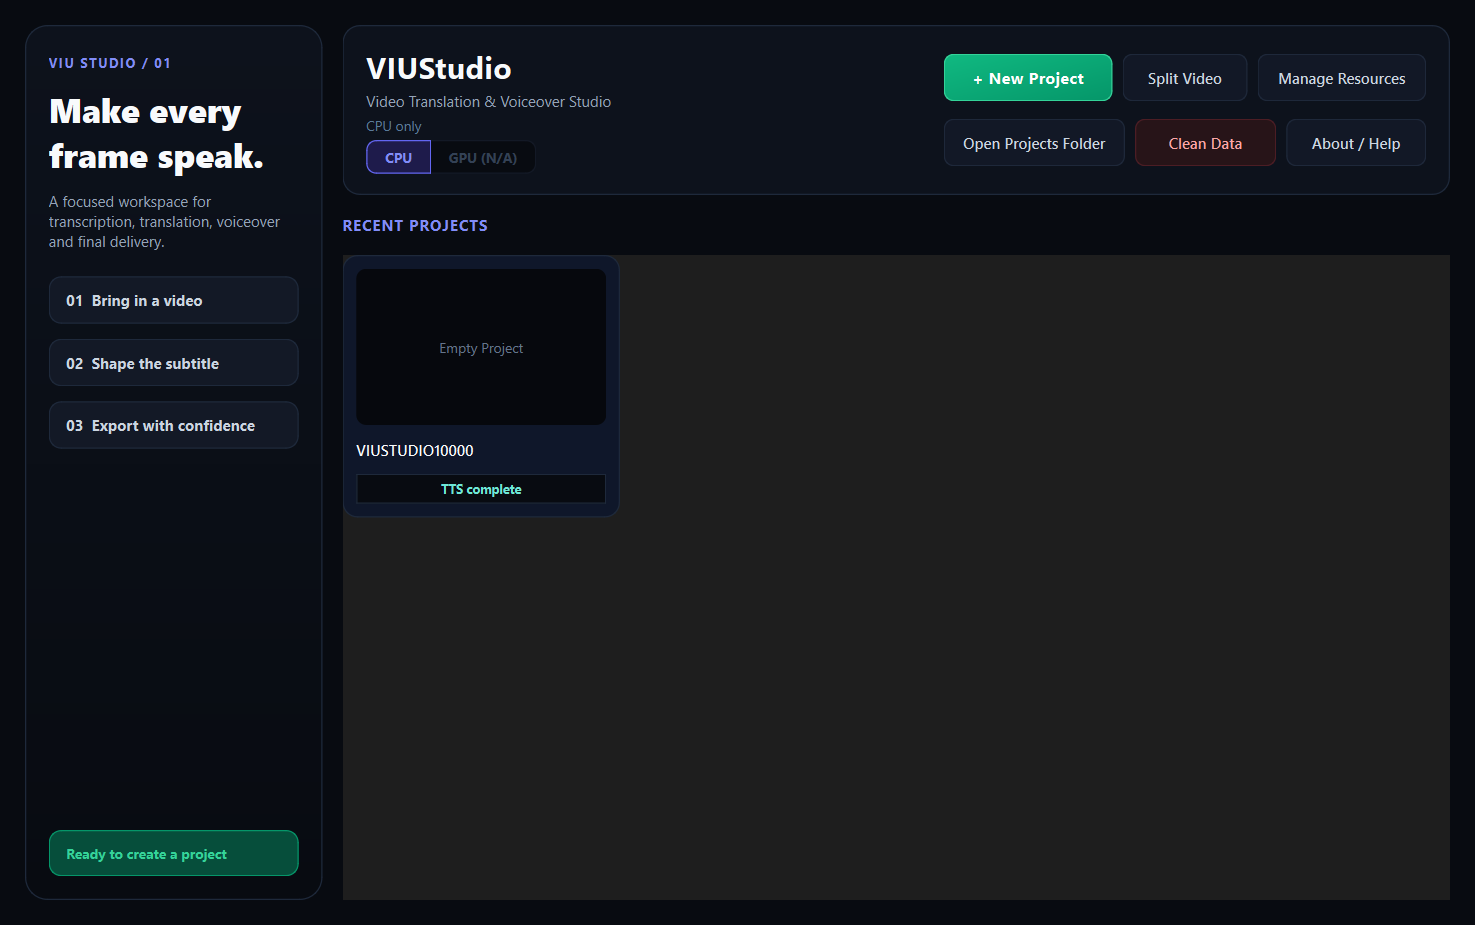
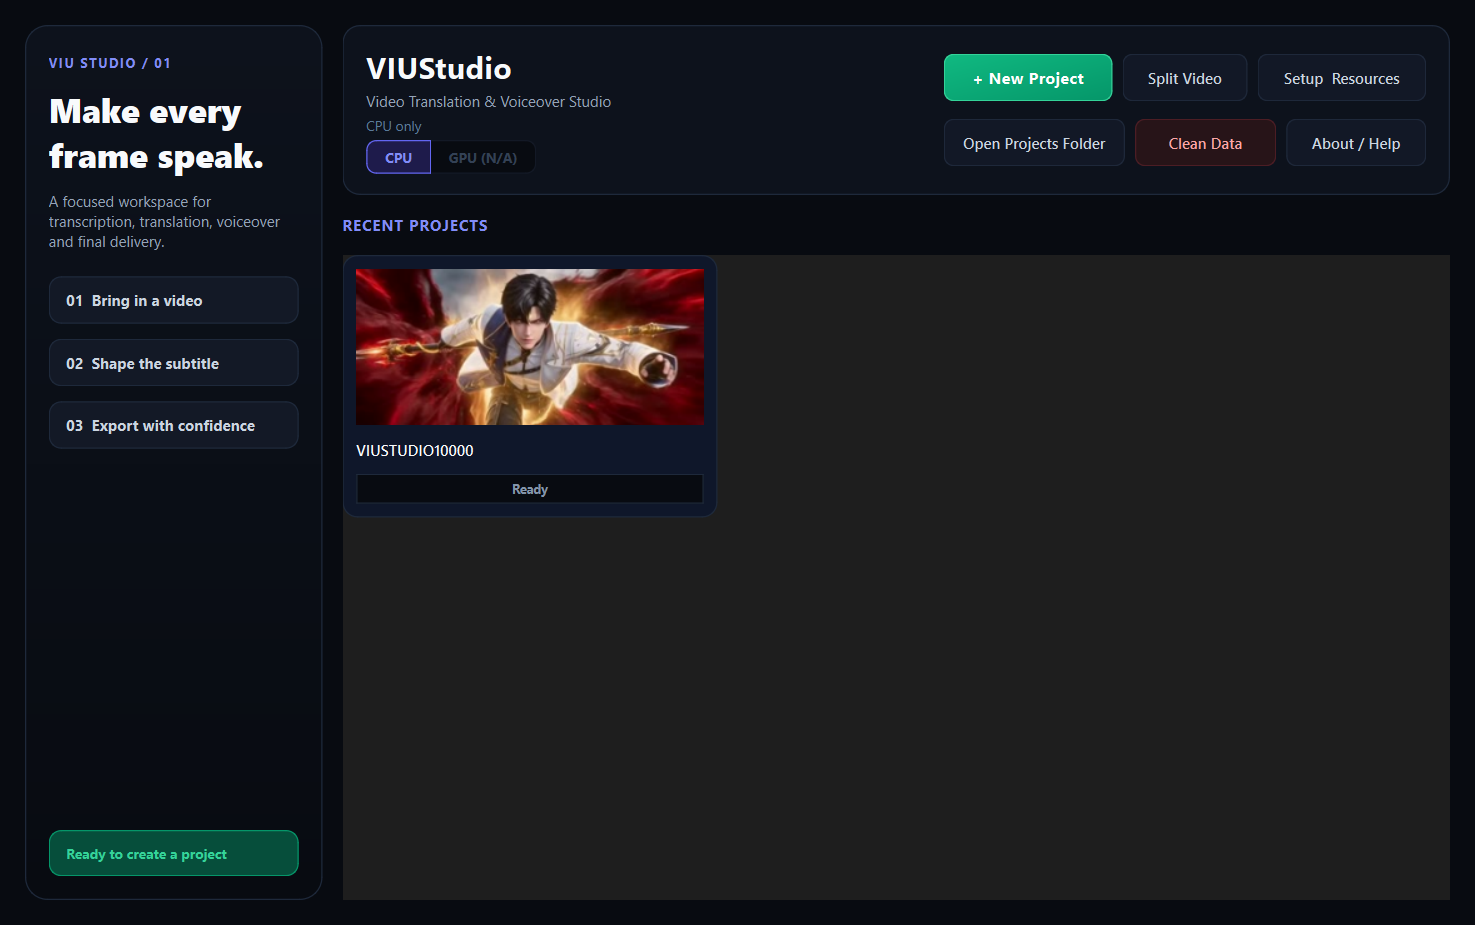
fix(ui): align navigation rail menu buttons and uniform card tiles

diff --git a/ui/views/setup_wizard.py b/ui/views/setup_wizard.py
@@ -9,6 +9,7 @@ from PySide6.QtWidgets import (
     QFrame,
     QHBoxLayout,
     QLabel,
+    QCheckBox,
     QPushButton,
     QProgressBar,
     QRadioButton,
@@ -31,8 +32,8 @@ class SetupWizard(QDialog):
         },
         "local": {
             "title": "Local AI",
-            "description": "Basic CPU plus offline Vietnamese Piper voices. Llama.cpp/GGUF can be imported afterwards.",
-            "resources": ("sensevoice:model", "sensevoice:vad", "voice:pack"),
+            "description": "Basic CPU plus selectable offline Piper voices in Vietnamese and English. Llama.cpp/GGUF can be imported afterwards.",
+            "resources": ("sensevoice:model", "sensevoice:vad"),
         },
         "gpu": {
             "title": "GPU acceleration",
@@ -58,6 +59,7 @@ class SetupWizard(QDialog):
             QLabel#hint { color: #91a4bb; font-size: 12px; }
             QFrame#profile { background: #111d2c; border: 1px solid #263d58; border-radius: 10px; }
             QRadioButton { color: #e7f0fb; font-size: 13px; font-weight: 700; spacing: 8px; }
+            QCheckBox { color: #dbeafe; font-size: 13px; spacing: 8px; }
             QPushButton { background: #17263a; color: #dbeafe; border: 1px solid #315476; border-radius: 7px; padding: 8px 16px; font-weight: 700; }
             QPushButton:hover { background: #203652; border-color: #4b9be8; }
             QPushButton#primary { background: #22b992; color: #07130f; border-color: #22b992; }
@@ -99,6 +101,34 @@ class SetupWizard(QDialog):
             layout.addWidget(description)
             root.addWidget(card)
 
+        # Voice packs are optional setup resources.  Keep this choice local to
+        # the wizard; the existing voice catalog/TTS selection logic remains
+        # unchanged and continues to select the active language at runtime.
+        self.voice_options = QFrame(self)
+        self.voice_options.setObjectName("profile")
+        voice_layout = QVBoxLayout(self.voice_options)
+        voice_layout.setContentsMargins(14, 10, 14, 10)
+        voice_title = QLabel("Offline Piper voice packs (optional)", self.voice_options)
+        voice_title.setStyleSheet("color: #e7f0fb; font-size: 13px; font-weight: 700;")
+        voice_layout.addWidget(voice_title)
+        voice_hint = QLabel("Choose one or both languages for offline voiceover.", self.voice_options)
+        voice_hint.setObjectName("hint")
+        voice_hint.setWordWrap(True)
+        voice_layout.addWidget(voice_hint)
+        voice_checks = QHBoxLayout()
+        self.voice_vi_check = QCheckBox("Vietnamese", self.voice_options)
+        self.voice_en_check = QCheckBox("English", self.voice_options)
+        self.voice_vi_check.setChecked(True)
+        self.voice_en_check.setChecked(True)
+        voice_checks.addWidget(self.voice_vi_check)
+        voice_checks.addWidget(self.voice_en_check)
+        voice_checks.addStretch(1)
+        voice_layout.addLayout(voice_checks)
+        self.voice_vi_check.toggled.connect(lambda _checked: self._refresh_status())
+        self.voice_en_check.toggled.connect(lambda _checked: self._refresh_status())
+        root.addWidget(self.voice_options)
+        self.voice_options.setVisible(False)
+
         self.status_label = QLabel(self)
         self.status_label.setWordWrap(True)
         root.addWidget(self.status_label)
@@ -129,11 +159,26 @@ class SetupWizard(QDialog):
 
     def _select_profile(self, key: str):
         self._profile_key = key
+        self.voice_options.setVisible(key == "local")
         self._refresh_status()
+
+    def _selected_resources(self) -> list[str]:
+        """Return setup resources selected in the wizard.
+
+        Piper packs are deliberately added here instead of changing the
+        runtime voice catalog, so existing project and TTS behaviour is kept.
+        """
+        resources = list(self.PROFILES[self._profile_key]["resources"])
+        if self._profile_key == "local":
+            if self.voice_vi_check.isChecked():
+                resources.append("voice:pack")
+            if self.voice_en_check.isChecked():
+                resources.append("voice:pack-en")
+        return resources
 
     def _refresh_status(self):
         profile = self.PROFILES[self._profile_key]
-        missing = [rid for rid in profile["resources"] if not self.service.is_resource_installed(rid)]
+        missing = [rid for rid in self._selected_resources() if not self.service.is_resource_installed(rid)]
         self._pending = missing
         if missing:
             self.status_label.setText(f"{len(missing)} resource(s) need installation for {profile['title']}.")

diff --git a/ui/views/main_window.py b/ui/views/main_window.py
@@ -104,19 +104,20 @@ def _build_navigation_rail(gui):
     mark = QLabel("V")
     mark.setObjectName("navigationMark")
     mark.setAlignment(Qt.AlignCenter)
-    mark.setFixedSize(42, 42)
+    mark.setFixedSize(44, 44)
     layout.addWidget(mark, 0, Qt.AlignHCenter)
 
     brand = QLabel("VIU\nSTUDIO")
     brand.setObjectName("navigationBrand")
     brand.setAlignment(Qt.AlignCenter)
-    layout.addWidget(brand)
+    layout.addWidget(brand, 0, Qt.AlignHCenter)
 
     divider = QFrame()
     divider.setObjectName("navigationDivider")
     divider.setFrameShape(QFrame.HLine)
     divider.setFixedHeight(1)
-    layout.addWidget(divider)
+    divider.setFixedWidth(70)
+    layout.addWidget(divider, 0, Qt.AlignHCenter)
 
     nav_group = QButtonGroup(rail)
     nav_group.setExclusive(True)
@@ -137,10 +138,10 @@ def _build_navigation_rail(gui):
         button.setCheckable(True)
         button.setAutoRaise(True)
         button.setCursor(Qt.PointingHandCursor)
-        button.setMinimumHeight(52)
+        button.setFixedSize(70, 52)
         button.setToolTip(f"Open {label} controls")
         nav_group.addButton(button)
-        layout.addWidget(button)
+        layout.addWidget(button, 0, Qt.AlignHCenter)
         key = label.lower()
         gui.navigation_buttons[key] = button
 
@@ -165,19 +166,21 @@ def _build_navigation_rail(gui):
     progress_button.setToolButtonStyle(Qt.ToolButtonTextOnly)
     progress_button.setAutoRaise(True)
     progress_button.setCursor(Qt.PointingHandCursor)
+    progress_button.setFixedSize(70, 44)
     progress_button.setToolTip("Show active pipeline progress")
     progress_button.clicked.connect(gui.show_active_progress_dialog)
-    layout.addWidget(progress_button)
+    layout.addWidget(progress_button, 0, Qt.AlignHCenter)
 
     project_button = QToolButton(rail)
     project_button.setObjectName("navigationUtilityButton")
-    project_button.setText("⌂\nProjects")
+    project_button.setText("📁\nProjects")
     project_button.setToolButtonStyle(Qt.ToolButtonTextOnly)
     project_button.setAutoRaise(True)
     project_button.setCursor(Qt.PointingHandCursor)
+    project_button.setFixedSize(70, 44)
     project_button.setToolTip("Return to Projects")
     project_button.clicked.connect(lambda: getattr(gui, "header_home_btn", None).click())
-    layout.addWidget(project_button)
+    layout.addWidget(project_button, 0, Qt.AlignHCenter)
 
     settings_button = QToolButton(rail)
     settings_button.setObjectName("navigationUtilityButton")
@@ -185,9 +188,10 @@ def _build_navigation_rail(gui):
     settings_button.setToolButtonStyle(Qt.ToolButtonTextOnly)
     settings_button.setAutoRaise(True)
     settings_button.setCursor(Qt.PointingHandCursor)
+    settings_button.setFixedSize(70, 44)
     settings_button.setToolTip("Open application settings")
     settings_button.clicked.connect(gui.open_model_settings_dialog)
-    layout.addWidget(settings_button)
+    layout.addWidget(settings_button, 0, Qt.AlignHCenter)
 
     gui.navigation_group = nav_group
     gui.navigation_buttons["source"].setChecked(True)

diff --git a/ui/main_window.py b/ui/main_window.py
@@ -45,7 +45,7 @@ QMainWindow, QWidget#centralWidget {
 QFrame#navigationRail {
     background: #0d121c;
     border: 1px solid #1a2333;
-    border-radius: 16px;
+    border-radius: 14px;
 }
 QLabel#navigationMark {
     background: qlineargradient(x1:0, y1:0, x2:1, y2:1, stop:0 #6366f1, stop:1 #4f46e5);
@@ -65,32 +65,43 @@ QFrame#navigationDivider {
     border: none;
     height: 1px;
 }
-QToolButton#navigationButton, QToolButton#navigationUtilityButton {
-    background: transparent;
+QToolButton#navigationButton {
+    background: #101622;
     color: #94a3b8;
-    border: 1px solid transparent;
-    border-radius: 10px;
-    padding: 7px 3px;
+    border: 1px solid #1a2436;
+    border-radius: 9px;
+    padding: 5px 2px;
     font-size: 10px;
     font-weight: 700;
 }
-QToolButton#navigationButton:hover, QToolButton#navigationUtilityButton:hover {
-    background: #151d2b;
+QToolButton#navigationButton:hover {
+    background: #182236;
     color: #f8fafc;
-    border-color: #24334a;
+    border-color: #3b82f6;
 }
 QToolButton#navigationButton:checked {
     background: qlineargradient(x1:0, y1:0, x2:1, y2:1, stop:0 #6366f1, stop:1 #4f46e5);
     color: #ffffff;
     border: 1px solid #818cf8;
 }
+QToolButton#navigationButton:disabled {
+    background: #090d15;
+    color: #475569;
+    border: 1px solid #131a26;
+}
 QToolButton#navigationUtilityButton {
+    background: #0d121c;
     color: #94a3b8;
+    border: 1px solid #182030;
+    border-radius: 9px;
+    padding: 4px 2px;
+    font-size: 10px;
+    font-weight: 700;
 }
 QToolButton#navigationUtilityButton:hover {
-    background: #151d2b;
+    background: #182236;
     color: #f8fafc;
-    border-color: #24334a;
+    border-color: #3b82f6;
 }
 
 /* ── Command Header ─────────────────────────────────────────────────────────── */

diff --git a/ui/views/launcher.py b/ui/views/launcher.py
@@ -647,12 +647,12 @@ class LauncherWindow(QDialog):
         self.split_btn.clicked.connect(self._on_split_video)
         action_row_one.addWidget(self.split_btn)
 
-        self.resource_btn = QPushButton("Manage Resources")
+        self.resource_btn = QPushButton("Setup & Resources")
         self.resource_btn.setMinimumHeight(38)
         self.resource_btn.setMinimumWidth(135)
         self.resource_btn.setCursor(Qt.PointingHandCursor)
         self.resource_btn.setStyleSheet(sec_btn_style)
-        self.resource_btn.clicked.connect(self._on_manage_resources)
+        self.resource_btn.clicked.connect(self._on_setup_resources)
         action_row_one.addWidget(self.resource_btn)
 
         self.open_project_btn = QPushButton("Open Projects Folder")
@@ -876,6 +876,12 @@ class LauncherWindow(QDialog):
         from runtime_paths import workspace_root
         from services import ResourceDownloadService
         return ResourceDownloadService(workspace_root())
+
+    def _on_setup_resources(self):
+        """Open the guided installer from the launcher."""
+        from views.setup_wizard import open_setup_wizard
+        open_setup_wizard(workspace_root(), parent=self)
+        self._validate_resources_for_device()
 
     def _validate_resources_for_device(self):
         try:

diff --git a/docs/requirements.md b/docs/requirements.md
@@ -34,6 +34,7 @@ cho người dùng nâng cao.
 | **Faster-Whisper Small/Medium** | Nhận diện giọng nói độ chính xác cao trên GPU | ~480 MB - 1.5 GB | `models/faster_whisper/` |
 | **CUDA 12 Runtime Pack** | Thư viện tăng tốc GPU cho Whisper & OCR | ~450 MB | `bin/cuda12_fw/` |
 | **Piper Voice (Tiếng Việt)** | Giọng đọc thuyết minh tự nhiên (Ngọc Huyền, Tuấn Khang) | ~60 MB / giọng | `models/piper/` |
+| **Piper Voice (English)** | Giọng đọc thuyết minh tiếng Anh offline | ~60 MB / giọng | `models/piper-en/` |
 | **Sherpa-ONNX Diarization** | Nhận diện phân tách người nói | ~40 MB | `models/pyannote/` |
 | **PP-OCRv4 (ONNX)** | Nhận diện chữ phụ đề trên khung hình video | ~30 MB | `models/ocr/` |
 
@@ -43,8 +44,8 @@ resources**; the setup wizard does not download them silently.
 ### Cấu hình đề xuất
 
 - **Basic CPU**: SenseVoice + `tokens.txt` + Silero VAD (đủ để bắt đầu).
-- **Local AI**: Basic CPU + Piper tiếng Việt; llama.cpp/GGUF được nhập khi
-  người dùng chọn nhà cung cấp local.
+- **Local AI**: Basic CPU + Piper tiếng Việt và/hoặc tiếng Anh (chọn trong
+  Setup Wizard); llama.cpp/GGUF được nhập khi người dùng chọn nhà cung cấp local.
 - **GPU acceleration**: Basic CPU + CUDA runtime pack và NVIDIA driver.
 
 Tài nguyên tùy chọn chỉ được kiểm tra khi workflow tương ứng được chạy, nên
